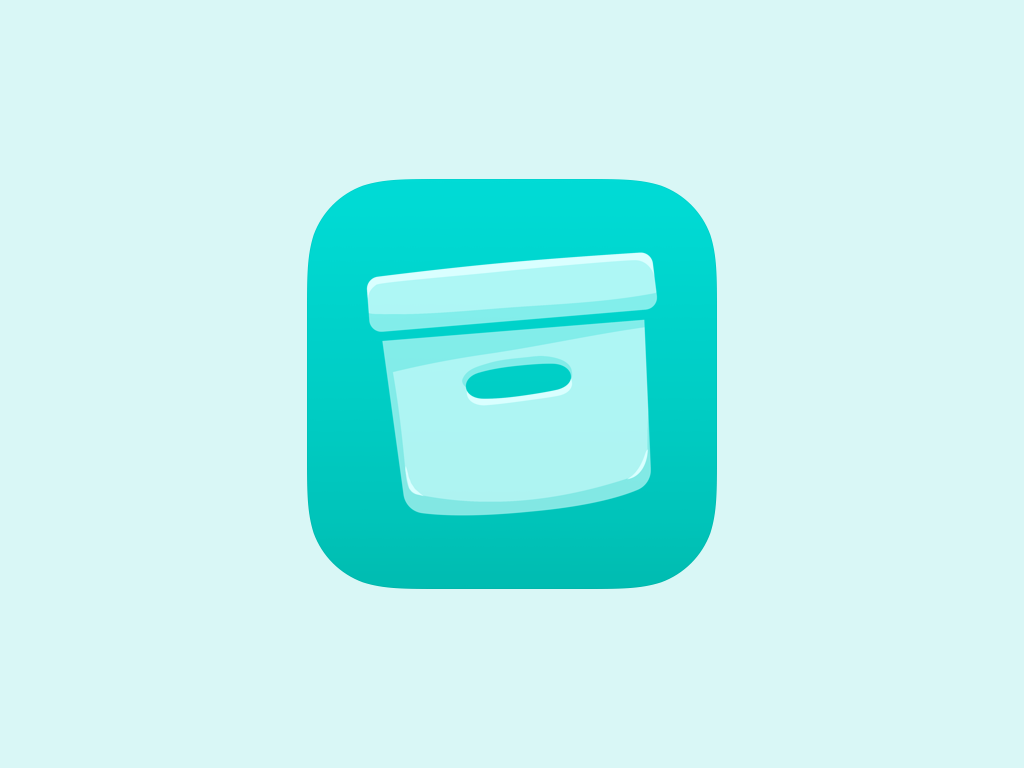
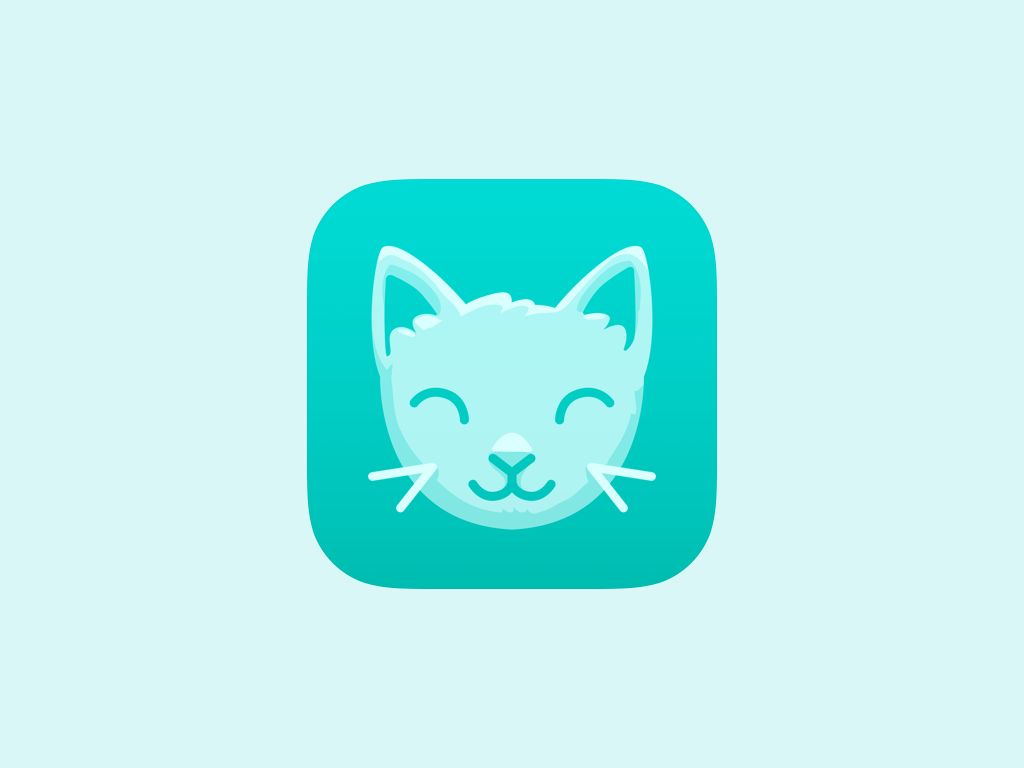
work

Changed region(s): [[0.3438, 0.3125, 0.6562, 0.6875]]

diff --git a/Jaden/SwiftUI/MontrealPoly.swiftpm/ContentView.swift b/Jaden/SwiftUI/MontrealPoly.swiftpm/ContentView.swift
@@ -1,50 +1,205 @@
 import SwiftUI
 
 struct ContentView: View {
-    @State var lands = [
-    ["Mediteranean Avenue", "Community Chest", "Baltic Avenue", "Income Tax", " Reading Railroad", "Oriental Avenue", "Chance", "Vermont Avenue", "Conneticut Avenue"],
-    ["St.Charles PLace", "Electric Company", "States Avenue", "Virgina Avenue", "Pennsylvania Railroad", "St. James Place", "Community Chest", "Tennessee Avenue", "New York Avenue"],
-    ["Kentucky Avenue", "Chance", "Indiana Avenue", "Illinois Avenue", "B. & O. Railroad", "Atlantic Avenue", "Ventor Avenue", "Water Works", "Marvin Garden"],
-    ["Pacific Avenue", "North Carolina Avenue", "Community Chest", "Pennsylvania Avenue", "Short Line", "Chance", "Park Place", "Luxury Tax", "Boardwalk"]
+    @State var corners : [String] = ["Go","Visiting Jail","Free Parking","Go To Jail"]
+    
+    @State var colors : [[Color]] = [
+        [.clear,.red,.clear,.red,.red,.clear,.yellow,.yellow,.clear,.yellow,.clear],
+        [.clear,.orange,.orange,.clear,.orange,.clear,.purple,.purple,.clear,.purple,.clear],
+        [.clear,.green,.green,.clear,.green,.clear,.clear,.blue,.clear,.blue,.clear],
+        [.clear,.cyan,.cyan,.clear,.cyan,.clear,.clear,.brown,.clear,.brown,.clear]
     ]
+    
+    @State var lands = [
+        ["","Jaden","Jaden","Jaden","4","Claire","6","Claire","8","Claire",""],
+        ["","1","2","3","4","5","6","7","8","9",""],
+        ["","1","2","3","4","5","6","7","8","9",""],
+        ["","1","2","3","4","5","6","7","8","9",""]
+    ]
+    
+    @State var players : [[Int]] = [[10,10],[10,10],[10,10],[10,10]]
+    @State var playerColors : [Color] = [.red, .blue, .green, .yellow]
+    
+    @State var a = 0
+    @State var b = 0
+    
+    @State var dice : Int = 1
+    @State var turn : Bool = false
+    
     var body: some View {
-        VStack(spacing: 0) {
-            ForEach(0..<11){ y in
-                HStack(spacing: 0) {
-                    ForEach(0..<11){ x in
-                        ZStack{
-                            Rectangle()
-                                .fill(isClear(x: x, y: y) ? .white : .cyan)
-                                .overlay{
-                                    if !isClear(x: x, y: y){
-                                        Rectangle()
-                                            .stroke(.black,lineWidth: 2)
+        ZStack{
+            VStack(spacing: 0) {
+                ForEach(0..<11){ y in
+                    HStack(spacing: 0) {
+                        ForEach(0..<11){ x in
+                            ZStack{
+                                Rectangle()
+                                    .fill(isClear(x: x, y: y) ? .white : .gray)
+                                    .overlay{
+                                        if !isClear(x: x, y: y){
+                                            Rectangle()
+                                                .stroke(.black,lineWidth: 2)
+                                        }
+                                    }
+                                VStack{
+                                    Text(getText(x: x, y: y))
+                                    Text("\(x),\(y)")
+                                        .foregroundColor(.black)
+                                }
+                                VStack{
+                                    HStack{
+                                        Circle()
+                                            .fill(getPlayerColor(x: x, y: y, player: 0))
+                                            .frame(width: 20)
+                                        Circle()
+                                            .fill(getPlayerColor(x: x, y: y, player: 1))
+                                            .frame(width: 20)
+                                        
+                                    }
+                                    HStack{
+                                        Circle()
+                                            .fill(getPlayerColor(x: x, y: y, player: 2))
+                                            .frame(width: 20)
+                                        
+                                        Circle()
+                                            .fill(getPlayerColor(x: x, y: y, player: 3))
+                                            .frame(width: 20)
                                     }
                                 }
-                            Text(getText(x: x, y: y))
-
-                            if !isClear(x: x, y: y){
-                                VStack{
-                                    Rectangle()
-                                        .fill(.red)
-                                    Rectangle()
-                                        .fill(.clear)
-                                    Rectangle()
-                                        .fill(.clear)
-                                    Rectangle()
-                                        .fill(.clear)
-                                    Rectangle()
-                                        .fill(.clear)
+                                if !isClear(x: x, y: y){
+                                    VStack{
+                                        Rectangle()
+                                            .fill(getColor(x: x, y: y))
+                                        Rectangle()
+                                            .fill(.clear)
+                                        Rectangle()
+                                            .fill(.clear)
+                                        Rectangle()
+                                            .fill(.clear)
+                                        Rectangle()
+                                            .fill(.clear)
+                                    }
                                 }
                             }
                         }
                     }
                 }
             }
+            VStack{
+                Dice(dice: $dice, turn: $turn)
+                    .onTapGesture {
+                        withAnimation(.easeInOut(duration: 0.5)){
+                            dice = Int.random(in: 1...6)
+                            turn.toggle()
+//                            print(players[0][0])
+                        
+                            if players[0][0] > 0 && a == 0{
+                                b = 0
+                                @State var extra = Int(players[0][0] - dice)
+                                if extra < 0{
+                                    players[0][0] = 0
+                                    players[0][1] += extra
+                                    
+                                }else{
+                                    players[0][0] -= dice
+                                }
+                                
+                            }else if players[0][1] > 0 && b == 0{
+                               a = 1
+                                @State var extra = Int(players[0][1] - dice)
+                  
+                                if extra < 0{
+                                    players[0][1] = 0
+                                    players[0][0] -= extra
+                                    
+                                }else{
+                                    players[0][1] -= dice
+                                }
+                            }else if players[0][0] == 0 && players[0][1] == 0{
+                       
+                                players[0][0] += dice
+                            }else if players[0][0] > 0 && players[0][0] < 10 && a == 1{
+                                b = 1
+                                @State var extra = Int(players[0][0] + dice)
+                                if extra > 10{
+                                    players[0][0] = 10
+                                    var turning = extra - 10
+                      
+                                    players[0][1] += turning
+                                    
+                            
+                                }else{
+                                    players[0][0] += dice
+                                }
+                            }else if players[0][0] == 10 && players[0][1] == 0{
+                                players[0][1] += dice
+                            }else if players[0][1] > 0 && players[0][1] < 10 && b == 1{
+                    
+                                
+                                @State var extra = Int(players[0][1] + dice)
+              
+                                if extra > 10{
+               
+                                    players[0][1] = 10
+                                    var turning = extra - 10
+                           
+                                    players[0][0] -= turning
+                                    a = 0
+                                    
+                                }else{
+                                    players[0][1] += dice
+                                }
+                            }else if players[0][0] == 10 && players[0][1] == 10{
+                                players[0][0] -= dice
+                            }
+                     
+
+//                            print(players[0][0])
+                        }
+                    }
+                Text("\(dice)")
+                    .foregroundColor(.black)
+            }
         }
         .padding()
     }
+    
+    func getPlayerColor(x:Int,y:Int,player:Int)->Color{
+        if players[player][0]==x && players[player][1]==y{
+            return playerColors[player]
+        }
+        return .clear
+    }
+    
+    func getColor(x: Int,y:Int)->Color{
+        if y==0{
+            return colors[0][x]
+        }
+        if x==0 {
+            return colors[1][y]
+        }
+        if x==10{
+            return colors[2][y]
+        }
+        if y==10{
+            return colors[3][x]
+        }
+        return .clear
+    }
+    
     func getText(x: Int,y:Int)->String{
+        if x==10 && y==10{
+            return corners[0]
+        }
+        if x==0 && y==10{
+            return corners[1]
+        }
+        if x==0 && y==0{
+            return corners[2]
+        }
+        if x==10 && y==0{
+            return corners[3]
+        }
         if y==0{
             return lands[0][x]
         }
@@ -59,7 +214,7 @@ struct ContentView: View {
         }
         return ""
     }
-
+    
     func isClear(x: Int, y: Int)->Bool{
         if x==0 || y==0 || x==10 || y==10{
             return false

diff --git a/Jaden/SwiftUI/MontrealPoly.swiftpm/Dice.swift b/Jaden/SwiftUI/MontrealPoly.swiftpm/Dice.swift
@@ -1,0 +1,38 @@
+import SwiftUI
+
+struct Dice: View {
+    let diceAlignments: [[Alignment]] = [
+        [.center,.center,.center,.center,.center,.center],
+        [.topLeading,.topLeading,.topLeading,.bottomTrailing,.bottomTrailing,.bottomTrailing],
+        [.topLeading,.topLeading,.center,.center,.bottomTrailing,.bottomTrailing],
+        [.topLeading,.topLeading,.bottomLeading,.topTrailing,.bottomTrailing,.bottomTrailing],
+        [.topLeading,.center,.bottomLeading,.topTrailing,.center,.bottomTrailing],
+        [.topLeading,.leading,.bottomLeading,.topTrailing,.trailing,.bottomTrailing]
+    ]
+    
+    @Binding var dice : Int
+    @Binding var turn : Bool
+    
+    var body: some View {
+        VStack{
+            ZStack{
+                RoundedRectangle(cornerRadius: 20)
+                    .fill(.red)
+                    .frame(width: 100, height: 100)
+                ForEach(0..<6){ index in
+                    ZStack(alignment: diceAlignments[dice-1][index]){
+                        RoundedRectangle(cornerRadius: 20)
+                            .fill(.clear)
+                            .frame(width: 100, height: 100)
+                        Circle()
+                            .fill(.white)
+                            .frame(width: 20, height: 20)
+                            .padding()
+                    }
+                }
+            }
+            .rotationEffect(Angle(degrees: turn ? 0 : 180))
+        }
+    }
+}
+

diff --git a/Jaden/SwiftUI/MontrealPoly.swiftpm/Package.swift b/Jaden/SwiftUI/MontrealPoly.swiftpm/Package.swift
@@ -8,17 +8,17 @@ import PackageDescription
 import AppleProductTypes
 
 let package = Package(
-    name: "Montreal Poly",
+    name: "Monopoly",
     platforms: [
         .iOS("16.0")
     ],
     products: [
         .iOSApplication(
-            name: "Montreal Poly",
+            name: "Monopoly",
             targets: ["AppModule"],
             displayVersion: "1.0",
             bundleVersion: "1",
-            appIcon: .placeholder(icon: .box),
+            appIcon: .placeholder(icon: .cat),
             accentColor: .presetColor(.mint),
             supportedDeviceFamilies: [
                 .pad,
